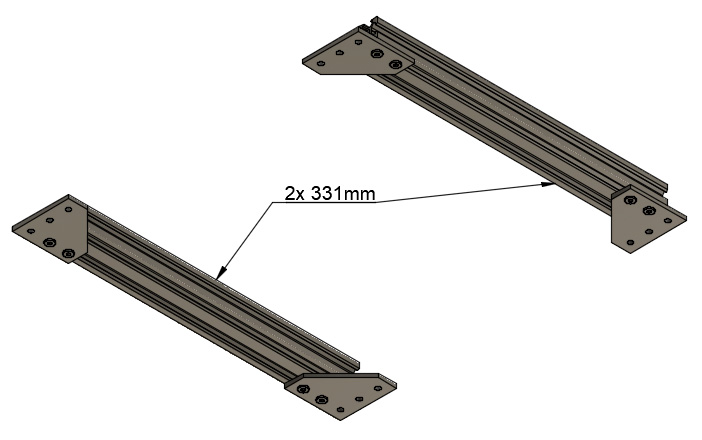
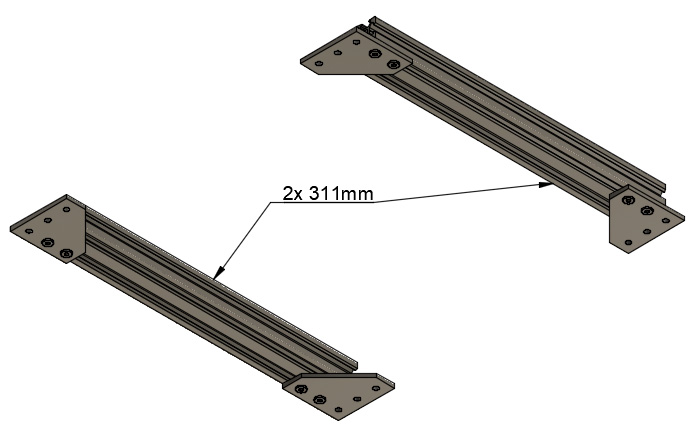
remove useless pics in mk2.5 and fix wrong v-slot length

Changed region(s): [[0.361, 0.0302, 0.9928, 0.6032], [0.0, 0.4223, 0.5716, 0.9954]]

diff --git a/full_upgrade/for_mk2.5/manual/assembly_instructions/step01.md b/full_upgrade/for_mk2.5/manual/assembly_instructions/step01.md
@@ -6,7 +6,7 @@
 
 #### Parts
 
-* 2x 331mm V-Slots
+* 2x 311mm V-Slots
 * 1x 370mm V-Slots
 * 4x 90° joining plates
 * 12x M5x10mm screws
@@ -15,9 +15,9 @@
 #### Assembly
 
 1. File sharp edges on the diagonal of 90° joining plates (figure 1.1). A small chamfer is enough, this just to avoid scratching cables and it will be useful for the next step as well
-1. Assemble 90° joining plates to the two 331mm v-slots as seen on figure 1.2 (with 8x M5x10 screws and 8x tee nuts). Do not tighten M5 screws yet
+1. Assemble 90° joining plates to the two 311mm v-slots as seen on figure 1.2 (with 8x M5x10 screws and 8x tee nuts). Do not tighten M5 screws yet
 1. Add 1x 370mm v-slot vertically as seen on figure 1.3 (with 4x M5x10 screws and 4x tee nuts). Do not tighten M5 screws yet
-1. Add 3 tee nuts on each side of the 331mm v-slots (12x tee nuts in total) as seen on figure 1.4
+1. Add 3 tee nuts on each side of the 311mm v-slots (12x tee nuts in total) as seen on figure 1.4
 
 
 ![](img/file_90deg_plate.jpg)\

diff --git a/full_upgrade/for_mk2_mk2s/manual/assembly_instructions/step01.md b/full_upgrade/for_mk2_mk2s/manual/assembly_instructions/step01.md
@@ -6,7 +6,7 @@
 
 #### Parts
 
-* 2x 331mm V-Slots
+* 2x 311mm V-Slots
 * 1x 370mm V-Slots
 * 4x 90° joining plates
 * 12x M5x10mm screws
@@ -15,9 +15,9 @@
 #### Assembly
 
 1. File sharp edges on the diagonal of 90° joining plates (figure 1.1). A small chamfer is enough, this just to avoid scratching cables and it will be useful for the next step as well
-1. Assemble 90° joining plates to the two 331mm v-slots as seen on figure 1.2 (with 8x M5x10 screws and 8x tee nuts). Do not tighten M5 screws yet
+1. Assemble 90° joining plates to the two 311mm v-slots as seen on figure 1.2 (with 8x M5x10 screws and 8x tee nuts). Do not tighten M5 screws yet
 1. Add 1x 370mm v-slot vertically as seen on figure 1.3 (with 4x M5x10 screws and 4x tee nuts). Do not tighten M5 screws yet
-1. Add 3 tee nuts on each side of the 331mm v-slots (12x tee nuts in total) as seen on figure 1.4
+1. Add 3 tee nuts on each side of the 311mm v-slots (12x tee nuts in total) as seen on figure 1.4
 
 
 ![](img/file_90deg_plate.jpg)\
